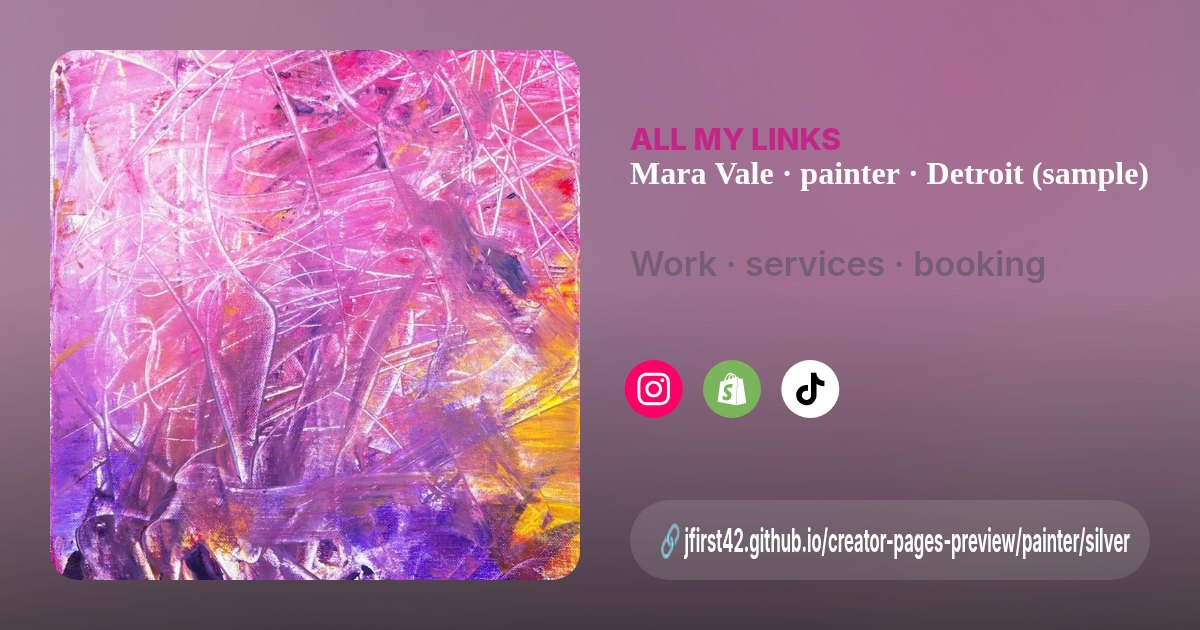
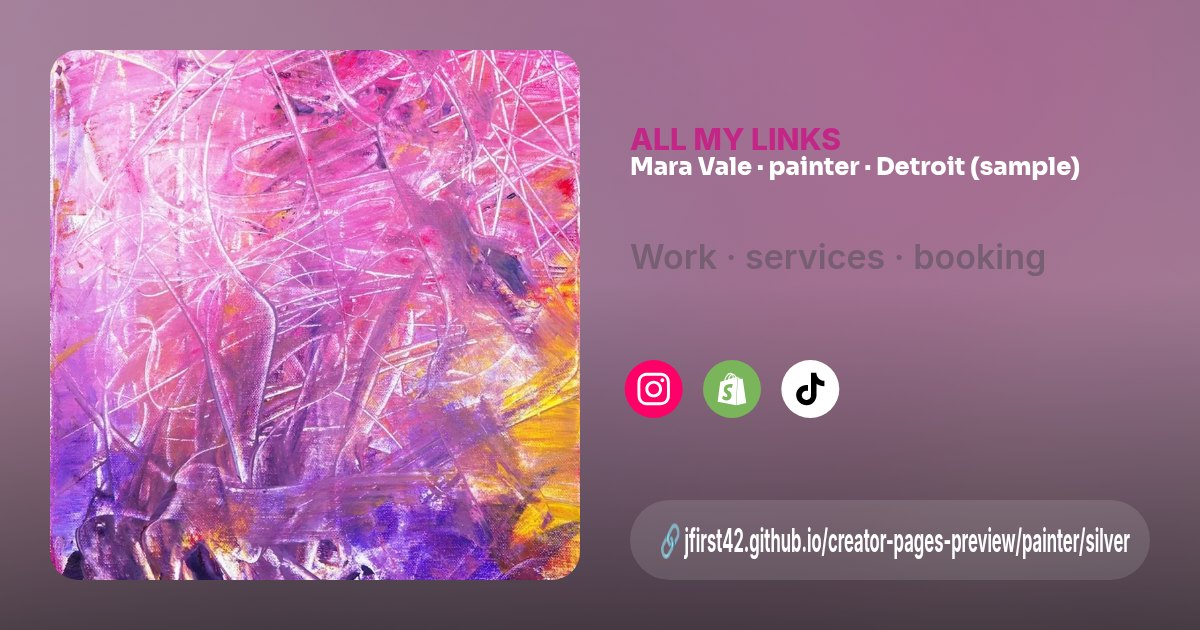
Round 7 step 4: preload the template-specific hero for ?tpl=

diff --git a/lash/gold/index.html b/lash/gold/index.html
@@ -23,6 +23,7 @@
 <link rel="preconnect" href="https://fonts.gstatic.com" crossorigin>
 <link rel="preload" as="style" href="https://fonts.googleapis.com/css2?family=Fraunces:wght@400;600;700;800&family=DM+Sans:wght@400;500;600;700;800&family=Playfair+Display:ital,wght@1,800&display=swap" onload="this.onload=null;this.rel='stylesheet'"><noscript><link rel="stylesheet" href="https://fonts.googleapis.com/css2?family=Fraunces:wght@400;600;700;800&family=DM+Sans:wght@400;500;600;700;800&family=Playfair+Display:ital,wght@1,800&display=swap"></noscript>
 <link rel="icon" href="icon.png">
+<script>(function(){var t=new URLSearchParams(location.search).get('tpl'),H={"luxe": "img/pro/hero-luxe.webp", "editorial": "img/pro/hero-editorial.webp"};if(t&&H[t]){var l=document.createElement('link');l.rel='preload';l.as='image';l.href=H[t];l.setAttribute('fetchpriority','high');document.head.appendChild(l)}})()</script>
 <link rel="stylesheet" href="base.css">
 <link rel="stylesheet" href="share.css">
 <link rel="stylesheet" href="studio.css">

diff --git a/hair/gold/index.html b/hair/gold/index.html
@@ -23,6 +23,7 @@
 <link rel="preconnect" href="https://fonts.gstatic.com" crossorigin>
 <link rel="preload" as="style" href="https://fonts.googleapis.com/css2?family=Fraunces:wght@400;600;700;800&family=DM+Sans:wght@400;500;600;700;800&family=Playfair+Display:ital,wght@1,800&display=swap" onload="this.onload=null;this.rel='stylesheet'"><noscript><link rel="stylesheet" href="https://fonts.googleapis.com/css2?family=Fraunces:wght@400;600;700;800&family=DM+Sans:wght@400;500;600;700;800&family=Playfair+Display:ital,wght@1,800&display=swap"></noscript>
 <link rel="icon" href="icon.png">
+<script>(function(){var t=new URLSearchParams(location.search).get('tpl'),H={"editorial": "img/pro/hero-editorial.webp"};if(t&&H[t]){var l=document.createElement('link');l.rel='preload';l.as='image';l.href=H[t];l.setAttribute('fetchpriority','high');document.head.appendChild(l)}})()</script>
 <link rel="stylesheet" href="base.css">
 <link rel="stylesheet" href="share.css">
 <link rel="stylesheet" href="studio.css">

diff --git a/nail/gold/index.html b/nail/gold/index.html
@@ -23,6 +23,7 @@
 <link rel="preconnect" href="https://fonts.gstatic.com" crossorigin>
 <link rel="preload" as="style" href="https://fonts.googleapis.com/css2?family=Unbounded:wght@400;600;700;800&family=Outfit:wght@400;500;600;700;800&family=Luckiest+Guy:wght@400&display=swap" onload="this.onload=null;this.rel='stylesheet'"><noscript><link rel="stylesheet" href="https://fonts.googleapis.com/css2?family=Unbounded:wght@400;600;700;800&family=Outfit:wght@400;500;600;700;800&family=Luckiest+Guy:wght@400&display=swap"></noscript>
 <link rel="icon" href="icon.png">
+<script>(function(){var t=new URLSearchParams(location.search).get('tpl'),H={"editorial": "img/pro/hero-editorial.webp"};if(t&&H[t]){var l=document.createElement('link');l.rel='preload';l.as='image';l.href=H[t];l.setAttribute('fetchpriority','high');document.head.appendChild(l)}})()</script>
 <link rel="stylesheet" href="base.css">
 <link rel="stylesheet" href="share.css">
 <link rel="stylesheet" href="studio.css">
